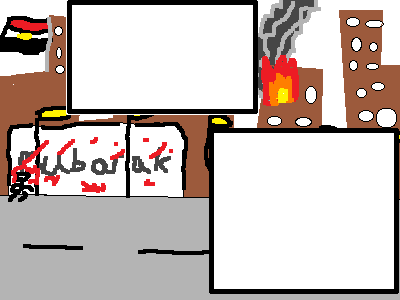
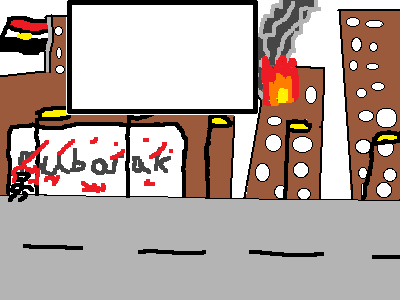
update on things

diff --git a/src/rob/nonMainGames/sideGames/RebellionPD/Panel.java b/src/rob/nonMainGames/sideGames/RebellionPD/Panel.java
@@ -25,7 +25,7 @@ public class Panel extends JPanel implements ActionListener {
         enemy = new Enemy();
         addKeyListener(new Adapter());
         setFocusable(true);
-        setBackground(Color.WHITE);
+        setBackground(Color.GRAY);
         setVisible(true);
         setDoubleBuffered(true);
         Timer timer = new Timer(5, this);
@@ -65,44 +65,62 @@ public class Panel extends JPanel implements ActionListener {
     private void getBackground(Graphics2D d, ImageIcon fbg, ImageIcon sbg, ImageIcon tbg) {
         d.setFont(new Font("Courier", Font.PLAIN, 10));
         String[] slides = new String[]{"THE ARAB SPRING INTERACTIVE", "PRESENTATION", "BY ROBM AND KEMH", "WE WILL COVER THE COUNTRIES",
-                "EGYPT, LIBYA AND SYRIA", "WE HOPE YOU ENJOY :)", "IN EGYPT THE ARMY REFUSES", "TO FIGHT WHICH MEANS THAT", "THE PEOPLE OF EGYPT WERE FREE",
-                "TO PROTEST ABOUT THE OPPRESSIVE", "REGIME OF ", "MUHAMMED HOSNI EL SAYED MUBARAK.", "MUBARAK STEPS FALLING WITHIN",
-                "A FEW MONTHS DUE TO", "PROTESTS AND INTERNATIONAL", "PRESSURE.", "EGYPT IS AN EXCELLENT", "EGYPT IS AN EXCELLENT",
+                "EGYPT, LIBYA AND SYRIA", "WE HOPE YOU ENJOY :)", "IN EGYPT THE ARMY REFUSES", "TO FIGHT WHICH MEANS THAT",
+                "THE PEOPLE OF EGYPT WERE", "FREE TO PROTEST ABOUT THE, ", "OPPRESSIVE REGIME OF", "MUHAMMED HOSNI EL", "SAYED MUBARAK.",
+                "MUBARAK STEPS DOWN", "WITHIN A FEW MONTHS", "DUE TO PROTESTS AND", "INTERNATIONAL PRESSURE.", "EGYPT IS AN EXCELLENT",
                 "EXAMPLE OF POPULAR", "DEMONSTRATION BRINGING", "ABOUT JUSTICE AND DEMOCRACY.", "HOWEVER IN LIGHT OF THIS",
                 "SUCCESS THERE WAS VIOLENCE", "DURING THE TIME BEFORE", "MUBARAK'S RESIGNATION AND", "PEOPLE DID DIE.",
                 "ALSO THE MUSLIM BROTHERHOOD", "-BELIEVED TO BE LINKED WITH", "AL-QAEDA DID BECOME POPULAR", "WHICH COULD HAVE BECOME A",
                 "SECURITY THREAT", "OVERALL IN EGYPT THE RESULT", "WAS POSITIVE FOR THE PEOPLE", "AND FOR JUSTICE", "IN LIBYA THE CONFLICT",
-                "WAS MORE VIOLENT.", "ALTHOUGH GADDAFI DID", "HEAVILY USE PROPAGANDA", "HIS USE OF THE MILITARY", "WAS MORE VISIBLE", "TO US LOOKING AT OUR",
-                "TELEVISIONS.", "THE BATTLE BETWEEN THE REBEL", "FORCES AND THE GOVERNMENT", "FORCES WAS FOUGHT", "IN A GUERRILLA SURROUNDING",
-                "THIS MEANT THAT NUMBERS", " WERE LESS IMPORTANT IN THE", "CONFLICT WHICH IS WHY AT", "THE BEGINNING THE REBELS",
-                "WERE ABLE TO STAY 'IN IT'", "AFTER THIS IN AREAS", "LIKE TRIPOLI", "THE FIGHTING BECAME MORE", "INTENSE AND THE", "REBELS SEEMED TO BE",
-                "SO CLOSE TO VICTORY", "FOR SO LONG", "THE TEMPO OF THE FIGHTING", "SLOWED CONSIDERABLY", "TOWARDS THE END OF", "THE FIGHTING.",
-                "LIBYA WAS A SUCCESS IN TERMS", "OF OVERTHROWING THE", "OLD GOVERNMENT", "HOWEVER THE WAY THEY", "DID IT CAUSED MANY PEOPLE TO", "LOSE THEIR LIVES.",
-                "AT THE MOMENT IN SYRIA", "PEOPLE ARE OPPRESSED BY", "THEIR CRUEL DICTATOR", "BAHSAR AL-ASSAD.", "THE PEOPLE OF THE COUNTRY"
-                , "LIVE IN CONSTANT FEAR OF", "THE SECRET POLICE.", "AL-ASSAD'S FATHER", "WAS IN POWER BEFORE", "HIM FOR 29 YEARS.", "ASSAD WAS ELECTED",
-                "IN 2000 AND 2007", "UNOPPOSED BOTH TIMES...", ".HIS FATHER WAS ALSO A DICTATOR", "FOR 29 YEARS IN SYRIA."};
-        if (textSlide < 6) {
-            d.drawImage(fbg.getImage(), 3, 3, this);
+                "WAS MORE VIOLENT.", "ALTHOUGH GADDAFI DID", "HEAVILY USE PROPAGANDA", "HIS USE OF THE MILITARY", "WAS MORE VISIBLE",
+                "TO US LOOKING AT OUR", "TELEVISIONS.", "THE BATTLE BETWEEN THE REBEL", "FORCES AND THE GOVERNMENT", "FORCES WAS FOUGHT",
+                "IN A GUERRILLA SURROUNDING", "THIS MEANT THAT NUMBERS", "WERE LESS IMPORTANT IN THE", "CONFLICT WHICH IS WHY AT",
+                "THE BEGINNING THE REBELS", "WERE ABLE TO STAY 'IN IT'", "AFTER THIS IN AREAS", "LIKE TRIPOLI", "THE FIGHTING BECAME MORE",
+                "INTENSE AND THE", "REBELS SEEMED TO BE", "SO CLOSE TO VICTORY", "FOR SO LONG", "THE TEMPO OF THE FIGHTING",
+                "SLOWED CONSIDERABLY", "TOWARDS THE END OF", "THE FIGHTING.", "LIBYA WAS A SUCCESS IN TERMS", "OF OVERTHROWING THE",
+                "OLD GOVERNMENT", "HOWEVER THE WAY THEY", "DID IT CAUSED MANY PEOPLE TO", "LOSE THEIR LIVES.", "AT THE MOMENT IN SYRIA",
+                "PEOPLE ARE OPPRESSED BY", "THEIR CRUEL DICTATOR", "BAHSAR AL-ASSAD.", "THE PEOPLE OF THE COUNTRY",
+                "LIVE IN CONSTANT FEAR OF", "THE SECRET POLICE.", "AL-ASSAD'S FATHER", "WAS IN POWER BEFORE", "HIM FOR 29 YEARS.",
+                "ASSAD WAS ELECTED", "IN 2000 AND 2007", "UNOPPOSED BOTH TIMES...", ".HIS FATHER WAS ALSO A DICTATOR",
+                "FOR 29 YEARS IN SYRIA."};
+        if (textSlide < 3) {
+            d.drawImage(fbg.getImage(), 0, 0, this);
             try {
                 d.drawString(slides[textSlide], 90, 80);
+                d.drawString(slides[textSlide + 1], 90, 90);
+                d.drawString(slides[textSlide + 2], 90, 100);
+                d.drawString(slides[textSlide + 3], 90, 110);
+                d.drawString(slides[textSlide + 4], 90, 120);
             } catch (Exception ignored) {
             }
-        } else if (textSlide >= 6 && textSlide < 34) {
+        } else if (textSlide >= 3 && textSlide < 31) {
             d.drawImage(sbg.getImage(), 0, 0, this);
             try {
                 d.drawString(slides[textSlide], 85, 20);
+                d.drawString(slides[textSlide + 1], 85, 30);
+                d.drawString(slides[textSlide + 2], 85, 40);
+                d.drawString(slides[textSlide + 3], 85, 50);
+                d.drawString(slides[textSlide + 4], 85, 60);
             } catch (Exception ignored) {
             }
-        } else if (textSlide >= 34 && textSlide < 68) {
+        } else if (textSlide >= 31 && textSlide < 65) {
             d.drawImage(tbg.getImage(), 0, 0, this);
             try {
                 d.drawString(slides[textSlide], 100, 70);
+                d.drawString(slides[textSlide + 1], 100, 80);
+                d.drawString(slides[textSlide + 2], 100, 90);
+                d.drawString(slides[textSlide + 3], 100, 100);
+                d.drawString(slides[textSlide + 4], 100, 110);
             } catch (Exception ignored) {
             }
         } else {
             d.drawImage(fbg.getImage(), 0, 0, this);
             try {
                 d.drawString(slides[textSlide], 90, 80);
+                d.drawString(slides[textSlide + 1], 90, 90);
+                d.drawString(slides[textSlide + 2], 90, 100);
+                d.drawString(slides[textSlide + 3], 90, 110);
+                d.drawString(slides[textSlide + 4], 90, 120);
             } catch (Exception ignored) {
             }
         }

diff --git a/src/rob/nonMainGames/sideGames/ToasterQuest/Tile.java b/src/rob/nonMainGames/sideGames/ToasterQuest/Tile.java
@@ -3,10 +3,26 @@ package rob.nonMainGames.sideGames.ToasterQuest;
 import javax.swing.*;
 import java.awt.*;
 
+//tiles draw from the BOTTOM LEFT
 public class Tile {
     private int x, y;
     private final Image image;
-    public static Tile[] tiles = new Tile[]{new Tile(-195, 405), new Tile(-195 + (18 * 15), 405 - (16 * 5))};
+    private static Tile t1 = new Tile(18 * 5, 405);
+    private static Tile t2 = new Tile(18 * 6, 405);
+    private static Tile t3 = new Tile(18 * 7, 405);
+    private static Tile t4 = new Tile(18 * 8, 405);
+    private static Tile t5 = new Tile(18 * 13, 405);
+    private static Tile t6 = new Tile(18 * 14, 405);
+    private static Tile t7 = new Tile(18 * 15, 405);
+    private static Tile t8 = new Tile(18 * 16, 405);
+    private static Tile t9 = new Tile(18 * 14, 405 - 16);
+    private static Tile t10 = new Tile(18 * 15, 405 - 16);
+    private static Tile t11 = new Tile(18 * 16, 405 - 16);
+    private static Tile t12 = new Tile(18 * 15, 405 - 16 * 2);
+    private static Tile t13 = new Tile(18 * 16, 405 - 16 * 2);
+    private static Tile t14 = new Tile(18 * 16, 405 - 16 * 3);
+    private static Tile t15 = new Tile(18 * 20, 405 - 16 * 5);
+    public static Tile[] tiles = new Tile[]{t1, t2, t3, t4, t5, t6, t7, t8, t9, t10, t11, t12, t13, t14, t15};
 
     public Tile(int x, int y) {
         this.x = x;

diff --git a/src/rob/nonMainGames/sideGames/ToasterQuest/Player.java b/src/rob/nonMainGames/sideGames/ToasterQuest/Player.java
@@ -139,15 +139,18 @@ public class Player {
         }
     }
 
-    private void getTiles() {
+    private void getTiles() {//BOTTOM LEFT
         for (Tile tile : Tile.tiles) {
             if (getBounds().intersects(tile.getBounds())) {
-                if (y >= tile.getY() - 16 && dy > 0 && y <= tile.getY() - 9) {
+                if (y >= tile.getY() - 16 && y <= tile.getY() - 13) {
                     System.out.println("upper barrier");
                     y = tile.getY() - 16;
                     canJump = true;
                 }
-
+            } else if (y >= tile.getY() + 31 && y <= tile.getY() + 34 && x >= tile.getX() && x <= tile.getX() + 18) {
+                System.out.println("lower barrier");
+                dy = 1;
+                state = currentState.FALLING;
             } else {
                 if (y >= 405) {
                     y = 405;
@@ -155,6 +158,7 @@ public class Player {
                 }
             }
         }
+
     }
 
     public void move() {

diff --git a/src/rob/nonMainGames/sideGames/ToasterQuest/Panel.java b/src/rob/nonMainGames/sideGames/ToasterQuest/Panel.java
@@ -27,7 +27,7 @@ public class Panel extends JPanel implements ActionListener {
         g.drawImage(map.getImage(), -player.getX(), -player.getY(), this);
         player.draw(g, this);
         for (Tile tile : Tile.tiles) {
-            g.drawImage(tile.getImage(), -player.getX() + tile.getX() + 208, -player.getY() + tile.getY() + 172, this);
+            g.drawImage(tile.getImage(), -player.getX() + tile.getX(), -player.getY() + tile.getY() + 172, this);
         }
         g.drawString("X         = " + player.getX(), 100, 100);
         g.drawString("Y         = " + player.getY(), 100, 110);

diff --git a/src/rob/nonMainGames/sideGames/ToasterQuest/MainClass.java b/src/rob/nonMainGames/sideGames/ToasterQuest/MainClass.java
@@ -19,5 +19,5 @@ Make the jumping system work and be elegant and easily understandable
 Make the tiles so that each new tile is a barrier for the player so you
 don't draw the tiles then set the bounds separately. Once those 2 are done
 do a little trimming and neatening to make the programs design more elegant
-and understandable again.+++
+and understandable again.
 */
